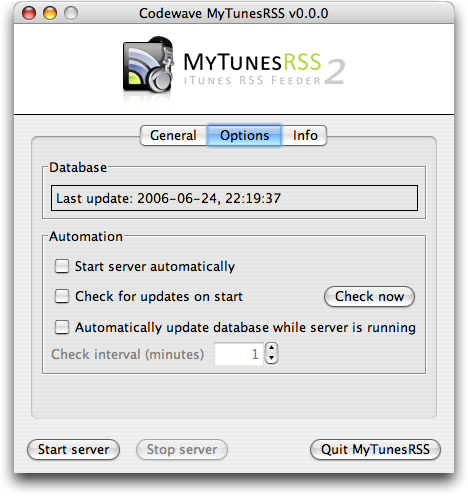
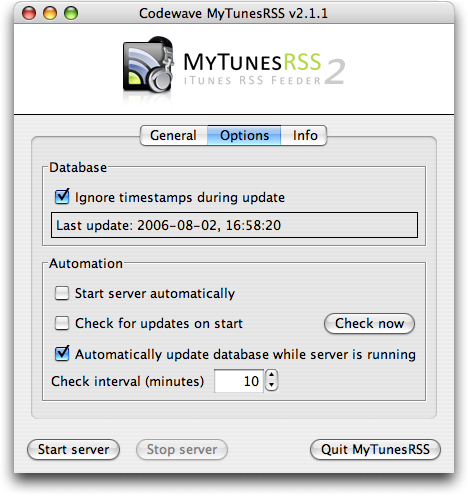
documentation for v2.2
git-svn-id: svn://127.0.0.1/MyTunesRss/trunk@1235 6cd82e91-2702-0410-863d-86aa3370aca5

diff --git a/etc/documentation/docs/de/config.html b/etc/documentation/docs/de/config.html
@@ -69,7 +69,11 @@
         <p>
             Auf der zweiten Seite finden Sie weitere Optionen. Als oberstes wird der Status der in MyTunesRSS integrierten Datenbank angezeigt. In
             dieser Datenbank hält MyTunesRSS eine Kopie der Daten aus der "iTunes Music Library.xml". Diese Datenbank wird automatisch beim Start des
-            Servers erzeugt bzw. aktualisiert.</p>
+            Servers erzeugt bzw. aktualisiert. Normalerweise werden nur Titel aktualisiert, die ein Änderungsdatum nach dem Datum des letzten Updates
+            haben. Unter bestimmten Umständen kann es vorkommen, dass iTunes Daten ändert, ohne das Änderungsdatum zu aktualisieren. Wenn Sie
+            feststellen, dass MyTunesRSS nicht die aktuellen Daten anzeigt, wählen Sie einfach die Option zum Ignorieren der Zeitstempel. Ein
+            Datenbankupdate wird dann je nach Größe Ihrer iTunes Bibliothek länger dauern. Wenn sie feststellen, dass das Update mit gewählter Option
+            schnell genug ist, können Sie sie auch gewählt lassen, um sicher zu sein, dass die Daten in MyTunesRSS immer aktuell sind.</p>
 
         <p>
             Unter "Automatisierung" könnnen Sie wählen, ob der integrierte Server beim Start von MyTunesRSS automatisch gestartet werden soll. Mit
@@ -78,7 +82,8 @@
             Diese Option steht nicht zur Verfügung, wenn Sie den Server automatisch starten lassen. Sie können hier auch manuell nach einer neuen
             Version suchen. Bei laufendem Server können Änderungen an iTunes optional automatisch in die MyTunesRSS Datenbank übernommen werden.
             Aktivieren Sie die entsprechende Option und legen Sie fest, alle wieviel Minuten MyTunesRSS nach Änderungen an der "iTunes Music
-            Library.xml" schauen soll. </p>
+            Library.xml" schauen soll. Dieses ist die Zeit zwischen dem Ende eines Updates und dem Beginn der nächsten Prüfung, d.h. wenn ein Update 5
+            Minuten dauert und die Zeit auf 10 Minuten gestellt ist, beginnt die zweite Prüfung 15 Minuten nach dem Start der ersten.</p>
 
         <img src="images/info.png" alt="Informationen" />
 
@@ -90,12 +95,13 @@
         <p>
             Unter den Konfigurationsseiten befinden sich die Knöpfe zum Starten und Stoppen des Servers und zum Beenden der Anwendung. Während der
             Server läuft, können Sie keine Einstellungen verändern. Wenn der Server gestartet wurde, wird in der Statuszeile auf der ersten
-            Konfigurationsseite die Adresse angezeigt, unter der der Server in Ihrem lokalen Netz erreichbar ist. Üblicherweise haben Sie eine
-            einzeige lokale Adresse (z.B. 192.168.0.2). Wenn Sie mehrere Netzwerkschnittstellen haben (z.B. ein LAN und ein WLAN), dann haben Sie auch
-            mehrere lokale Adressen. Es wird nur eine davon in der Statuszeile angezeigt. Wenn Sie alle lokalen Adressen sehen möchten, klicken Sie
-            auf den Informationsknopf neben der Statusanzeige. Es wird auch Ihre externe Adresse angezeigt, wenn Sie mit dem Internet verbunden sind
-            und die Adresse ermittelt werden kann. Sie können die Ermittlung abbrechen, wenn es zu lange dauert. Die internen Adressen werden in jedem
-            Fall angezeigt. </p>
+            Konfigurationsseite die Adresse angezeigt, unter der der Server in Ihrem lokalen Netz erreichbar ist. Üblicherweise haben Sie eine einzige
+            lokale Adresse (z.B. 192.168.0.2). Wenn Sie mehrere Netzwerkschnittstellen haben (z.B. ein LAN und ein WLAN), dann haben Sie auch mehrere
+            lokale Adressen. Es wird nur eine davon in der Statuszeile angezeigt. Wenn Sie alle lokalen Adressen sehen möchten, klicken Sie auf den
+            Informationsknopf neben der Statusanzeige. Es wird auch Ihre externe Adresse angezeigt, wenn Sie mit dem Internet verbunden sind und die
+            Adresse ermittelt werden kann. Im Statusfenster werden außerdem alle aktuellen Verbindungen zu MyTunesRSS angezeigt.</p>
+
+        <img src="images/serverinfo.png" alt="Server Informationen" width="426" />
 
         <p>
             Beim Beenden des Programmes wird ein eventuell noch laufender Server zuerst gestoppt. Die Fensterposition und sämtliche Einstellunegn

diff --git a/etc/documentation/docs/en/config.html b/etc/documentation/docs/en/config.html
@@ -67,14 +67,20 @@
 
         <p>
             The second tab shows additional options. Topmost you can see the status of the database integrated in MyTunesRSS. This database contains
-            all the data from the "iTunes Music Library.xml" file. It is created or updated automatically each time you start the server.</p>
+            all the data from the "iTunes Music Library.xml" file. It is created or updated automatically each time you start the server. Usually only
+            tracks with a modification date later than the last update are refreshed. In some cases it is possible that iTunes refreshed certain data
+            without updating the modification time. If you encounter any problems with refreshing, just check the option to ignore timestamps.
+            Depending on your iTunes library size, an update will take longer with this option checked. If it does not take too long, you can always
+            have the option checked to be sure the MyTunesRSS database is always in sync with iTunes.</p>
 
         <p>
             In "automation" you can select to start the server automatically when starting MyTunesRSS. This way you can put the application into your
             system's startup items and have the server up and running when booting your operating system. Furthermore you can have MyTunesRSS
             automatically check for new versions on startup. This option is not available in case you choose to start the server automatically. You
             can also look for new versions manually. When the server is running you can have it automatically check for changes in iTunes and have the
-            internal database updated. Select the number of minutes between these checks.</p>
+            internal database updated. Select the number of minutes between these checks. This is the time between the finish of one update and the
+            start of the next one, i.e. if the update itself takes 5 minutes and the time is set to 10 minutes, the second update check will start 15
+            minutes after the first one started.</p>
 
         <img src="images/info.png" alt="Informationen" />
 
@@ -89,7 +95,9 @@
             address which can be used to access the MyTunesRSS web application. Usually you have a single address which is displayed. In case you have
             multiple network interfaces, e.g. LAN and WLAN, you have multiple addresses as well. The information button next to the server status
             opens a simple dialog which displays all local addresses and your external address if you are connected to the internet and it can be
-            determined. You can cancel fetching the external address if it takes too long. Your internal ones will be displayed nevertheless.</p>
+            determined. All active connections to MyTunesRSS are also shown in the server status window.</p>
+
+        <img src="images/serverinfo.png" alt="Server Informationen" width="468" />
 
         <p>
             When quitting the program while the server is running, it is stopped. The window position and all settings are automatically saved for the

diff --git a/etc/documentation/docs/de/web_browse.html b/etc/documentation/docs/de/web_browse.html
@@ -60,7 +60,8 @@
             angezeigt. Mit einem Klick auf die Anzahl der Alben springen Sie auf die Listen der Alben des Künstlers. Mit einem Klick auf die Anzahl
             der Titel in die Titelliste. </p>
 
-        <p>Am Ende der Zeile sind die Icons um eine M3U Playliste oder einen RSS Feed für alle Titel des Künstlers zu erzeugen.</p>
+        <p>Am Ende der Zeile sind die Icons um eine M3U Playliste oder einen RSS Feed für alle Titel des Künstlers zu erzeugen. Sie können auch ein
+           ZIP Archiv aller Titel des Künstlers mit dem Download Icon herunterladen.</p>
 
         <p>Über den Künstlern sind Links zum Anzeigen der Liste der Alben und zum Erstellen einer neuen Playliste. Diese Funktion wird in einem
            späteren Kapitel beschrieben.</p>
@@ -69,10 +70,10 @@
 
         <p>Die Liste der Alben ist ähnlich aufgebaut. Sie zeigt alle Alben in alphabetischer Reihenfolge. Hinter jedem Album steht der Künster oder
            "verschiedene" bei Alben mit mehreren Künstlern. Auch die Anzahl der Titel auf dem Album und die Links zum Erzeugen einer M3U Playlist oder
-           eines RSS Feeds sind pro Album vorhanden. Mit einem Klick auf die Anzahl der Titel gelangen Sie auf die Titelliste, bei einem Klick auf den
-           Künstler (für "verschiedene" nicht möglich) werden alle Alben des Künstlers gezeigt. Wenn Sie eine gefilterte Liste von Alben sehen (alle
-           Alben eines Künstlers) und die Liste mehr als ein Album enthält, ist am Ende der Liste ein zusätzlicher Eintrag "Alle Titel der obigen
-           Alben" vorhanden.</p>
+           eines RSS Feeds sind pro Album vorhanden. Sie können auch hier ein ZIP Archiv mit allen Titeln des Albums herunterladen. Mit einem Klick
+           auf die Anzahl der Titel gelangen Sie auf die Titelliste, bei einem Klick auf den Künstler (für "verschiedene" nicht möglich) werden alle
+           Alben des Künstlers gezeigt. Wenn Sie eine gefilterte Liste von Alben sehen (alle Alben eines Künstlers) und die Liste mehr als ein Album
+           enthält, ist am Ende der Liste ein zusätzlicher Eintrag "Alle Titel der obigen Alben" vorhanden.</p>
 
         <img src="images/web_album.png" width="463" alt="Albenliste" />
 
@@ -97,7 +98,7 @@
 
         <p><img src="../images/m3u.gif" alt="m3u" style="vertical-align:text-bottom" /> M3U Playliste erzeugen</p>
 
-        <p><img src="../images/download.gif" alt="download" style="vertical-align:text-bottom" /> Titel herunterladen</p>
+        <p><img src="../images/download.gif" alt="download" style="vertical-align:text-bottom" /> herunterladen</p>
 
     </div>
 

diff --git a/etc/documentation/docs/en/web_browse.html b/etc/documentation/docs/en/web_browse.html
@@ -55,7 +55,8 @@
             To the right of each artist the number of albums this artist has tracks on and the number of tracks of this artist is displayed. You can
             click the number of albums to show them. Clicking the number of tracks displays a list of those tracks.</p>
 
-        <p>At the end of each line are icons for creating M3U playlists or RSS feeds from all tracks of an artist.</p>
+        <p>At the end of each line are icons for creating M3U playlists or RSS feeds from all tracks of an artist. You can also download a ZIP archive
+           with all titles of the artist with the download icon.</p>
 
         <p>Above the list are links for switching to browse albums and for creating ne playlists. This function will be described in a later
            chapter.</p>
@@ -63,10 +64,11 @@
         <img src="images/web_artist.png" width="463" alt="artist list" />
 
         <p>The list of albums looks similar. It shows all albums sorted alphabetically. Next to each album is the artist or "various" if there are
-           multiple artists on the album, the track count for the album and the icons for creating M3U playlists or RSS feeds. With a click on the
-           track count you get to the track list display. A click on the artist (not supported for "various") takes you to all albums of this artist.
-           In case you have a filtered list, i.e. all albums of a single artist, you also get a special item at the bottom which is called "All tracks
-           of the above albums". This is displayed only if there are multiple albums for an artist.</p>
+           multiple artists on the album, the track count for the album and the icons for creating M3U playlists or RSS feeds. The link for
+           downloading all titles of the album in a ZIP archive is available as well. With a click on the track count you get to the track list
+           display. A click on the artist (not supported for "various") takes you to all albums of this artist. In case you have a filtered list, i.e.
+           all albums of a single artist, you also get a special item at the bottom which is called "All tracks of the above albums". This is
+           displayed only if there are multiple albums for an artist.</p>
 
         <img src="images/web_album.png" width="463" alt="album list" />
 

diff --git a/etc/documentation/docs/de/versions.html b/etc/documentation/docs/de/versions.html
@@ -50,8 +50,18 @@
 
         </h1>
 
+        <h2>Version 2.2</h2>
+        <span class="date">06. August 2006</span>
+        <ul>
+        <li>Download mehrerer Titel als ZIP Archiv</li>
+        <li>Option zum Ignorieren von Zeitstempeln bei Datenbankupdates</li>
+        <li>Mehr Informationen im Serverstatus Fenster</li>
+        <li>Cover aus MP3s im RSS Feed</li>
+        <li>Bugfixes</li>
+        </ul>
+
         <h2>Version 2.1</h2>
-        <span class="date">25 Juni 2006</span>
+        <span class="date">25. Juni 2006</span>
         <ul>
         <li>Download-Link für einzelne Titel</li>
         <li>Datenbank Autoupdate in Minuten anstatt Sekunden</li>

diff --git a/etc/documentation/docs/de/web_portal.html b/etc/documentation/docs/de/web_portal.html
@@ -64,7 +64,8 @@
 
         <p>
             Hinter jeder Playlist stehen die Anzahl der Titel in der Playlist. Mit einem Klick auf die Anzahl werden die Titel angezeigt. Am Ende
-            jeder Zeile finden Sie die Symbole zum Erzeugen einer M3U Playliste oder eines RSS Feeds aus der kompletten Playliste. </p>
+            jeder Zeile finden Sie die Symbole zum Erzeugen einer M3U Playliste oder eines RSS Feeds aus der kompletten Playliste. Sie können über das
+            Download Symbol auch alle Titel der Playlist in einem ZIP Archiv herunterladen.</p>
 
         <img src="images/web_portal.png" width="463" alt="Login" />
 

diff --git a/etc/documentation/docs/en/web_portal.html b/etc/documentation/docs/en/web_portal.html
@@ -62,7 +62,8 @@
 
         <p>
             The track count for each playlist is displayed. A click on the count displays the tracks. At the end of each row you can see the icons for
-            creating an M3U playlist or an RRS feed from the playlist tracks.</p>
+            creating an M3U playlist or an RRS feed from the playlist tracks. You can also download a ZIP archive with all titles of a playlist by
+            clicking the download icon.</p>
 
         <img src="images/web_portal.png" width="463" alt="Login" />
 

diff --git a/etc/documentation/docs/en/versions.html b/etc/documentation/docs/en/versions.html
@@ -50,6 +50,16 @@
 
         </h1>
 
+        <h2>Version 2.2</h2>
+        <span class="date">August 06, 2006</span>
+        <ul>
+        <li>Download of multiple titles in ZIP archive</li>
+        <li>Option to ignore timestamps on database updates</li>
+        <li>More information in server status window</li>
+        <li>Cover art from MP3s in RSS feed</li>
+        <li>Bugfixes</li>
+        </ul>
+
         <h2>Version 2.1</h2>
         <span class="date">June 25, 2006</span>
         <ul>

diff --git a/Runtime/src/de/codewave/mytunesrss/MyTunesRss.java b/Runtime/src/de/codewave/mytunesrss/MyTunesRss.java
@@ -75,7 +75,7 @@ public class MyTunesRss {
             LOG.info("Java: " + getJavaEnvironment());
         }
         ModuleInfo modulesInfo = ModuleInfoUtils.getModuleInfo("META-INF/codewave-version.xml", "MyTunesRSS");
-        VERSION = modulesInfo != null ? modulesInfo.getVersion() : "0.0.0";
+        VERSION = modulesInfo != null ? modulesInfo.getVersion() : System.getProperty("MyTunesRSS.version", "0.0.0");
         if (LOG.isInfoEnabled()) {
             LOG.info("Application version: " + VERSION);
         }

diff --git a/Webapp/src/de/codewave/mytunesrss/command/StartNewPlaylistCommandHandler.java b/Webapp/src/de/codewave/mytunesrss/command/StartNewPlaylistCommandHandler.java
@@ -5,7 +5,6 @@
 package de.codewave.mytunesrss.command;
 
 import de.codewave.mytunesrss.datastore.statement.*;
-import de.codewave.utils.servlet.*;
 
 import java.util.*;
 

diff --git a/Webapp/src/de/codewave/mytunesrss/command/CreatePlaylistCommandHandler.java b/Webapp/src/de/codewave/mytunesrss/command/CreatePlaylistCommandHandler.java
@@ -14,7 +14,6 @@ import java.sql.*;
 import java.io.*;
 import java.util.*;
 import java.lang.*;
-import java.lang.Error;
 
 import org.apache.commons.lang.*;
 
